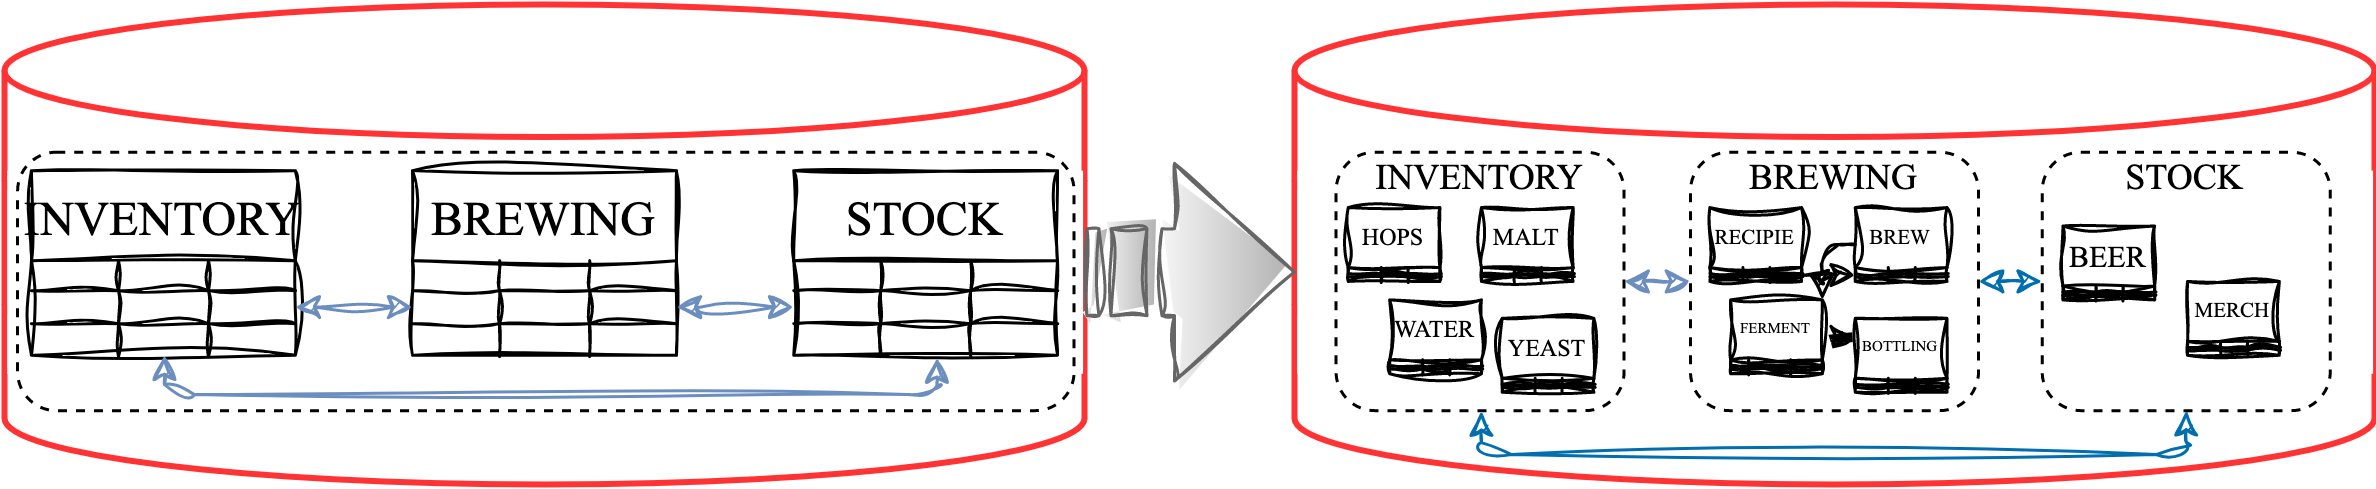
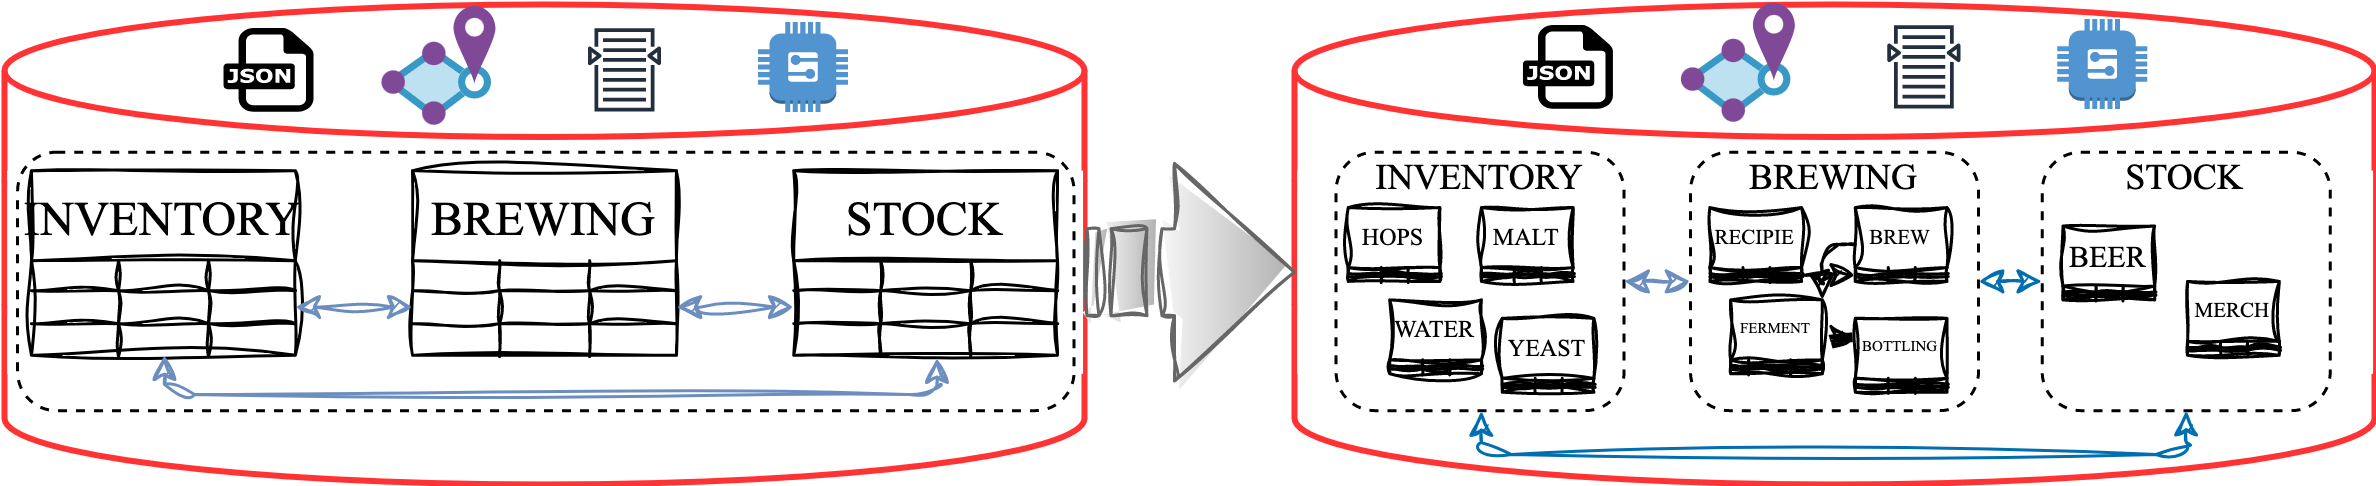
For Review

diff --git a/kubernetes-for-oracledbas/understand-kubernetes/understand-kubernetes.md b/kubernetes-for-oracledbas/understand-kubernetes/understand-kubernetes.md
@@ -4,6 +4,8 @@
 
 In this lab, we will review the basics of the Microservices Architecture and Kubernetes Infrastructure.
 
+If you are already familiar and comfortable with these concepts/technology, please feel free to move onto [Get Started](https://oracle-livelabs.github.io/common/labs/cloud-login/cloud-login.md) for the hands-on portion of the Workshop.
+
 *Estimated Lab Time:* 10 minutes
 
 ### Objectives
@@ -13,49 +15,80 @@ In this lab, we will review the basics of the Microservices Architecture and Kub
 
 ## Task 1: What are Microservices?
 
-Imagine yourself in the role of a DBA for a new micro-brewery named "Query Brews."  It is a small-scale operation featuring a single standout beer known as the "Drop Cascade IPA," but your responsibilities as the DBA will be significant. You have been entrusted with designing and supporting the database that will:
+Imagine yourself in the role of an Oracle DBA for a new micro-brewery, "Query Brews".  It is a small-scale operation featuring a single standout beer known as the "Drop Cascade IPA," but your responsibilities as the Oracle DBA will be significant. You have been entrusted with designing and supporting the database that will:
 
 * Record ingredient inventory.
 * Manage the brewing process.
 * Track the available stock for sale.
 
-Given the size and sole beer offering, you choose a straightforward and efficient approach by implementing a single schema design, enabling **seamless data access** and **streamlined querying** with **minimal complexity**.
+Given the size and sole beer offering, you choose a straightforward and efficient approach by implementing a single schema design, enabling **seamless data access** and **streamlined querying** with **minimal complexity**.  Each application has different data type requirements, but fortunately Oracle can handle them all preventing the need to support multiple special-purpose database technologies.
+
+### *Local Legends* - Containers
 
 After a highly successful year, a range of fresh new beers, such as the "SQL Saison" and "OLAP Porter," were meticulously crafted to expand the brewery's offerings.  However, these additions required modifications to the current single schema objects.
 
-It became apparent that modifying the schema was not only challenging, but also **prone to errors** and **disruptive** to the different operations the database supported.  In response, you made the strategic decision to segregate the inventory, brewing, and stock objects into dedicated schemas, ensuring **greater organisation** while **minimising potential disruptions** between the different operations.
+It became apparent that modifying the single schema was challenging, **prone to errors**, and **disruptive** to the different operations the database supported.  In response, you made the strategic decision to segregate the inventory, brewing, and stock objects into dedicated schemas, ensuring **greater organisation** while **minimising potential disruptions** between the different operations during change operations.
 
 ![Schema Progression](images/schema_ms.png "Schema Progression")
 
-As the brewery's reputation soared, the workforce expanded to include dedicated inventory and stock/e-commerce personnel, as well as new brewers.  Each team member brought valuable insights for enhancing their respective domains, necessitating adjustments to both the front-end application and the backend database schemas.  Simultaneously, the responsibility of upholding the database's performance and stability rested on your shoulders, requiring occasional upgrades, patches, and handling of planned outages.  However, **obtaining consensus for modifications** to the applications and **coordinating maintenance tasks** proved to be an insurmountable challenge.
+In a sense, you can say that you **Containerised** the schemas based on their operational functionality.  It took a bit of work to get there though, you had to:
 
-To alleviate the administrative overhead associated with **change coordination**, a resolution was reached to divide the infrastructure.  Each team was allocated its own dedicated database and application tier, granting them the freedom to **progress at their own pace** without impeding the progress or disrupting the other teams.
+* Identify all object inter-dependencies required for each function to operate correctly.
+* Establish new Roles and Privileges for cross-schema access.
+* Build new Stored Procedures and Packages (APIs) to abstract underlying schema design changes.
+
+However, as a result, you now have:
+
+* **Enhanced Security** allowing for separation between the brewery's operations.
+* **Isolation** to develop individual brewery operation functionality without impacting the others.
+* **Portability** of each schema using tools such datapump and transportable tablespaces.
+
+### *National Icons* - Microservices
+
+Query Brews has evolved into a national success with "Relational Red Ale" being voted the Countries Favourite!  Ingredients are being shipped in by the truck-load, brews are being produced round-the-clock, and the online store is getting tens-of-thousands hits per day.  Unfortunately the database is struggling to perform during the customers "weekend preparations", which is having a negative impact on the other brewery operations.  It has also been a real struggle to co-ordinate database patches, upgrades, and outages with the different business units.
+
+Building on the benefits of the "containerised" schemas, you decide to take action and break the infrastructure up.   Each brewery function is allocated its own Real Application Cluster (RAC) database, ensuring:
+
+* **Improved Fault Tolerance and Resilience** both at the Application and Database layer by using High Availability Solutions, such as RAC.
+* **Improved Scalability** by allowing different parts of the system to scale based on its specific needs.
+* **Team Autonomy** each brewery unit can make independent decisions without impacting the entire system.
+* **Ease of Maintenance** by breaking the system down into smaller parts, the brewery's IT implementation is easier to understand, develop, test, and maintain.
 
 ![Database Progression](images/db_ms.png "Database Progression")
 
-By initially dividing the schema and subsequently breaking down the architectural components by operation, including the database, into smaller, more manageable services capable of independent deployment and scalability, you have naturally embraced the concept of *Microservices*!
+With this infrastructure re-organisation, you've naturally embraced the [**Microservices**](https://developer.oracle.com/technologies/microservices.html) architecture.  There have been challenges you had to overcome, including:
+
+* Handling distributed transactions across the different databases.
+* Messaging between the databases using [Transactional Event Queues (TxEventQ)](https://www.oracle.com/database/advanced-queuing/)
+
+However, with careful planning and taking advantage of the Oracle database features, utilising the Oracle Database in a Microservices Architecture has been an overwhelming success.
 
 ## Task 2: What is Kubernetes?
 
-Query Brews has evolved into a national success with "Relational Red Ale" being voted the Countries Favourite!  Brews are being produced round-the-clock and the online store is getting tens-of-thousands hits per day.  Resources have been **over-allocated** to handle the peaks of the system and **additional hardware** has been purchased to implement High-Availability/Disaster Recovery to avoid outages.
+As the Query Brew's reputation soars, a number of short-comings in the infrastructure has come to the surface.  The current infrastructure, which has significantly increased, has led to certain applications having **unused resources** while others are **overwhelmed** at different times of the day.  **Monitoring** the environment to get a holistic view of all operations, from the application to the database, is complex and requires a number of tools that necessitates integration and maintenance.  Additionally, **obtaining consensus for modifications** to the applications and **coordinating maintenance tasks** with the database has proved to be an insurmountable challenge.  These tasks need to be carefully **orchestrated** to prevent any service disruptions or outages.
 
-In general, everything is now running smoothly, but there is a **significant administrative burden** when it comes to upgrades and patching.  These tasks need to be carefully executed in a co-ordinated, rolling manner to prevent any service disruptions or outages.  Additionally, it is evident that there is a substantial amount of **computing resources being underutilised** to accommodate sales and production peaks, while the inventory system remains largely inactive except overnight when the batch processing is taking place.
+This is where *Kubernetes* can help... Kubernetes plays a crucial role by acting as an intelligent overseer for your Microservices, it:
 
-The IT department, including yourself, have been asked to reassess the infrastructure and explore possibilities for restructuring to address these problems.  Your colleagues are quick to suggest *Kubernetes*, an **orchestration** platform that **automates the deployment, scaling, and management** of your application Microservices as containers.
-
-Utilising Kubernetes at the brewery would simplify the management of the existing infrastructure and potentially allow you to consolidate it.  It will also enable developers to focus on building and deploying their applications without worrying about the underlying infrastructure.  Finally, it enable efficient application deployment, scaling, and automated management.
-
-## Task 4: Why Kubernetes?
-
-You have already addressed a number of operational issues at Query Brews by embracing the Microservices Architecture.  However, there are a number of infrastructure issues that have come to the surface that also need some attention.  Lets take a quick look at a few of these and explore why your colleagues have suggested Kubernetes:
+* Allows you to easily scale your applications based on demand.
+* Provides extensive capabilities for monitoring, alerting, visualisation, and log analysis.
+* Automatically handles application failures.
+* Simplifies deployment and updates of applications whether on-premises or in the Cloud.
 
 ![K8s](images/k8s.png)
 
+Let's take a closer look at some of these points:
+
 ### Resource Optimisation and Scalability
 
-Beer production stops on Wednesdays and Thursdays, giving the brewers a well needed break, with the focus shifting to online sales and stock.  This switch has a direct impact on the infrastructure as there is, understandably, a massive spike in the online web application and stock database on these weekend preparation days.  Instead of over-allocating resources to handle peaks, ideally it would be great to re-allocate resources and scale the applications up or down when needed.
+Beer production stops on Wednesdays and Thursdays, giving the brewers a well needed break, with the focus shifting to online sales and stock.  This switch has a direct impact on the infrastructure as there is, understandably, a massive spike in the online web application and stock database on "weekend preparation" days.  Instead of over-allocating resources to handle peaks, Kubernetes can be used re-allocate resources and scale the applications up or down when needed.
 
 With Kubernetes, you can efficiently allocate and manage resources. It intelligently schedules and balances services across the cluster, maximising resource utilisation and performance.  It also provides built-in scaling features.  Kubernetes allows you to easily increase or decrease the resources of your application based on demand, ensuring optimal resource utilisation and responsiveness.
+
+### Observability
+
+As the infrastructure spread out to enable isolation, visibility and insights into the performance, health, and behavior of the applications and their databases became more difficult obtain.  Collating and centralising logging, metric, and health information to detect and resolve issues promptly, optimise resource utilisation, and ensure the overall health and availability of your system was a full-time job.
+
+Kubernetes provides a solid foundation for observability by offering native support for logging, metrics, health checks, and resource monitoring. It also fosters an ecosystem of observability tools, such as Prometheus and Grafana, and integrations that further enhance the monitoring and troubleshooting capabilities of Kubernetes environments.
 
 ### High Availability
 
@@ -69,9 +102,13 @@ As Query Brews continues to experience success, it may become more cost-effectiv
 
 Kubernetes supports hybrid or multi-cloud deployments. It provides portability and flexibility, allowing consistent management of applications across different environments, whether on-premises or across multiple cloud providers... Run the applications in the Cloud with the database on-premises, the options are endless.
 
-## Task 3: Explore Kubernetes Components
+## Task 3: Kubernetes Infrastructure
 
-Kubernetes appears to be a promising solution for addressing the infrastructure challenges faced by Query Brews. Although you may have never been exposed to Kubernetes, as an experienced Oracle DBA with knowledge of Oracle Real Application Clusters (**RAC**), you can leverage your familiarity with the concepts of distributed computing environments.  Drawing parallels between the two clustering technologies can help flatten the learning curve and ease the transition to Kubernetes.
+At the heart of Kubernetes (K8s) is the cluster, it forms the core infrastructure where the Microservices are deployed, managed, and monitored.  Understanding the infrastructure and components of the Kubernetes (K8s) cluster is essential for providing the best Oracle database support to the Microservices running within it, which may include the Oracle database itself.
+
+### *Worldwide Trailblazers* - Kubernetes Cluster
+
+Even though you may have never been exposed to Kubernetes, as an experienced Oracle DBA with knowledge of Oracle Real Application Clusters (**RAC**), you can leverage your familiarity RAC and Grid Infrastructure to comprehend the Kubernetes infrastructure.  As Query Brews begins its transition to the Kubernetes environment, you embark on a journey to grasp the essential components of a Kubernetes cluster.
 
 Lets see how Kubernetes (**K8s**) Compares to an Oracle RAC running on Grid Infrastructure (**GI**).
 
@@ -79,17 +116,14 @@ Lets see how Kubernetes (**K8s**) Compares to an Oracle RAC running on Grid Infr
 
 ### *User Interface* - Kubectl and SRVCTL
 
-<details>
 When managing a RAC Cluster, such as creating, starting, stopping, or deleting cluster resources, your go-to CLI tool is SRVCTL (or CRSCTL if you're feeling brave).  A similar CLI tool is used for managing a K8s cluster, kubectl.
 
 Kubectl allows you to interact with the K8s API server and perform various operations such as deploying applications, managing pods, services, and scaling resources.  It operates at the container and cluster level, allowing management of pods, deployments, services, replica sets, and other Kubernetes-specific resources.
 
 You will be using Kubectl throughout the workshop to interact with the K8s Cluster.
-</details>
 
 ### *Control Plane*
 
-<details>
 Similar to the Clusterware stack in Oracle GI, the *Control Plane* in K8s plays a crucial role as the central point in managing and controlling cluster operations.  Both the GI Clusterware Stack and the K8s *Control Plane* are composed of multiple components that work together to provide essential services and functionalities such as high availability, scalability, and extensibility.
 
 The K8s *Control Plane* consists of the following components:
@@ -114,11 +148,9 @@ Just as in GI and the OCR, it is highly recommended to regularly backup the etcd
 Both the Oracle Cluster Synchronisation Services Daemon (CSSD) and Kubernetes API Server provide an interface for managing and controlling cluster operations, handle coordination among cluster nodes, and facilitate communication between various components in the cluster.
 
 The Kubernetes API Server accepts API requests from users, administrators, and other components, processing and executing them to manage the cluster's state and resources.  Similarly, the Oracle CSSD in Oracle Clusterware handles cluster synchronisation, coordinates actions among cluster nodes, and ensures consistent communication and control throughout the cluster.
-</details>
 
 ### *Nodes* - Worker and RAC
 
-<details>
 A worker node is one of the key components that make up a Kubernetes cluster.  A worker node, just like a RAC node, is a physical or virtual machine.  It runs the containerised workloads orchestrated by Kubernetes similarly to a RAC node running a database instance.  Worker Nodes consists of several key components, including the container runtime (such as Docker), kubelet, and optional features like the kube-proxy.
 
 The worker node is responsible for executing and managing containers, as well as communicating with the control plane components of Kubernetes.
@@ -130,19 +162,15 @@ The Kubelet and the Cluster Ready Services Daemon (CRSD) operate at the node lev
 ### *Kube-Proxy*, *Services* and Listeners
 
 Kube-Proxy and Services provide the network abstraction and stable endpoints for accessing Microservices in a K8s cluster.  Kube-Proxy operates at the Node Level, just as Local Listeners do, while Services operate at the "Namespace" level and are similar to the SCAN Listener.  They all contribute to achieving high availability, load balancing, and routing.
-</details>
 
 ### *Namespaces*
 
-<details>
 One distinct advantage to a K8s cluster that is not available in Grid Infrastructure clusters is the Namespace.  A Namespace is virtual clusters within the physical cluster and is used to create logical partitions and separate resources. They provide isolation, resource allocation, and security boundaries for applications running in the cluster.
 
 Consider when having to consolidate multiple databases onto the same cluster.  Isolation is difficult to achieve.  Sure you can implement strategies, such as instance caging, to address resource limits, but physical access to the database host brings challenges, especially with security boundaries and administrators.  Namespaces address these challenges in a K8s cluster and in the case of a database, you could have the Inventory, Brewing, and Stock databases all running in the same physcial cluster, in separate Namespaces to provide complete operational separation.
-</details>
 
 ### *Containers and Pods*
 
-<details>
 Containerisation involves encapsulating an application, along with its dependencies and runtime environment, into a self-contained unit that can be executed consistently across different computing environments.
 
 Let's consider a RAC node as an illustration for a container. Envision the ability to bundle the OS, GI, ORACLE_HOMEs, TNS_ADMIN, along with all the necessary patches into a single, installable package.  You would then be able to effortlessly deploy it to either expand an existing cluster or establish a new one.  The time, effort, and potential for errors that could be eliminated would be substantial.
@@ -150,11 +178,10 @@ Let's consider a RAC node as an illustration for a container. Envision the abili
 A pod can be thought of as a logical host for containers, where each container within the pod shares the same IP address and port space. Containers within the same pod can communicate with each other using localhost, making it easier to build and manage interconnected applications.
 
 A Pod would be the equivalent of a "shared database server", where multiple databases, independent of each other run on the same host.
-</details>
 
 ## Task 4: Summarise
 
-Initially, when Query Brews began with its single beer offering, both the business and its supporting IT infrastructure were straightforward and manageable. At that point, adopting a Microservices Architecture and Kubernetes Infrastructure would have been excessive and unnecessary. However, as the business expanded, it became evident that adjustments were necessary to enable IT to scale alongside it.
+Initially, when Query Brews began with its single beer offering, both the business and its supporting IT infrastructure were straightforward and manageable. At that point, adopting a Microservices Architecture and Kubernetes Infrastructure would have been excessive and unnecessary. However, as the business expanded, it became evident that adjustments were necessary to enable IT to scale alongside it.  Luckily, as an Oracle DBA, you played a crucial role in facilitating a smooth transition for the organisation to the new architecture and infrastructure. The Oracle database served as the central component of the data persistence layer, and your expertise ensured a seamless migration.
 
 Microservices and Kubernetes are powerful tools and architectural approaches that would bring numerous benefits to Query Brews. However, whether they are the right choice depends on various factors and considerations.
 
@@ -184,6 +211,7 @@ Here are some advantages and disadvantages to keep in mind:
 
 ## Learn More
 
+* [Oracle Converged Database](https://blogs.oracle.com/database/post/what-is-a-converged-database)
 * [Oracle Container Engine for Kubernetes (OKE)](https://www.oracle.com/uk/cloud/cloud-native/container-engine-kubernetes/)
 * [Kubernetes](https://kubernetes.io/)
 
